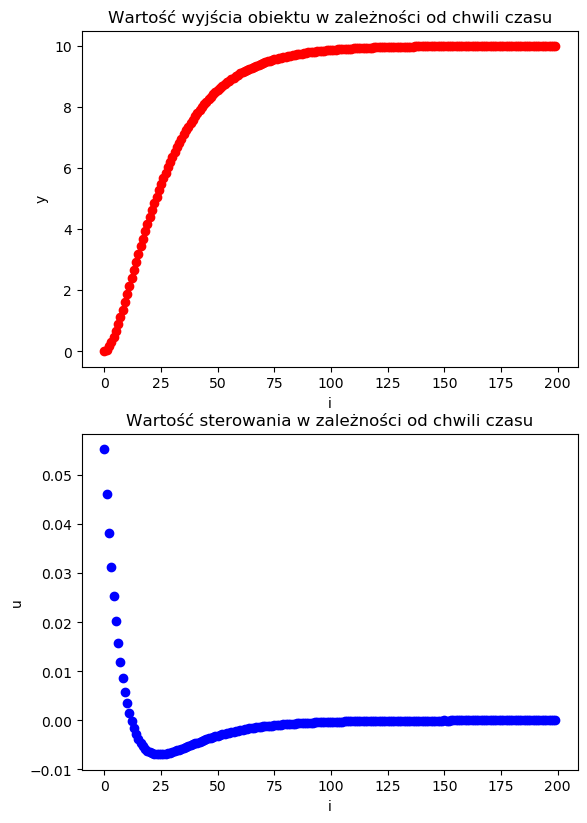
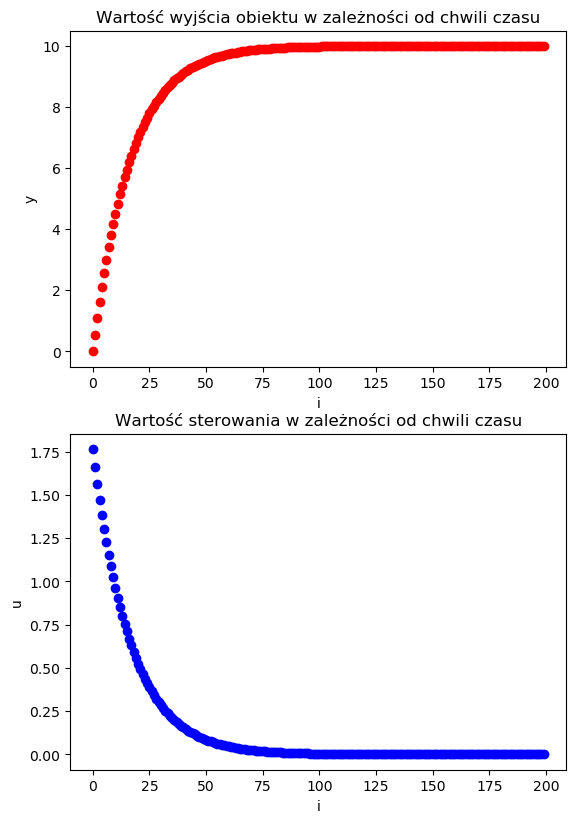
More plots provided

diff --git a/PC-STM-communication/test.py b/PC-STM-communication/test.py
@@ -8,12 +8,12 @@ import statistics
 
 projectPath = os.path.dirname(os.path.abspath(__file__))
 changeParameters = True
-systemParameters = {'A': [1, 0, 1, 0, 0, 1, 0, 1, 0, 0, 1, 0, 0, 0, 0, 1],
-                    'B': [0, 0, 1, 0],
+systemParameters = {'A': [-1, 0.2, 1, -0.2, 0, 0.5, 0.1, 1, 0, 0, 1, 0, 0, 0, 0, 1],
+                    'B': [0, 0, 1, 1],
                     'C': [1, 1, 0, 0],
-                    'setPoint': [10],
-                    'controlExtremeValues': [-10, 10],
-                    'horizons': [30, 8]}
+                    'setPoint': [100],
+                    'controlExtremeValues': [-0.25, 0.25],
+                    'horizons': [15, 3]}
 systemParametersToSend = str(systemParameters)[1:-1] + '\n\0'
 A = np.array(systemParameters['A']).\
     reshape(-1, int(np.sqrt(len(systemParameters['A']))))
@@ -52,12 +52,13 @@ fig[0].set_title('Wartość wyjścia obiektu w zależności od chwili czasu')
 fig[0].plot(y, 'ro'), fig[0].set_ylabel('y'), fig[0].set_xlabel('i')
 fig[1].set_title('Wartość sterowania w zależności od chwili czasu')
 fig[1].plot(u, 'bo'), fig[1].set_ylabel('u'), fig[1].set_xlabel('i')
-plt.savefig(r'{0}\plots\horizons_{1}.png'.format
-            (projectPath, systemParameters['horizons']), format='png', bbox_inches='tight')
+plt.show()
+#plt.savefig(r'{0}\plots\A_{1}.png'.format
+#            (projectPath, systemParameters['A']), format='png', bbox_inches='tight')
 print(y[-1])
 
 with open('log.txt', 'a') as logger:
-    logger.write(str(systemParameters['A']))
+    logger.write(str(systemParameters['A']) + '\n')
     logger.write('Init time, Mean of timestamps,'
                  ' Stdev of timestamps, Max of timestamps\n')
     logger.write(f"{initTimer:.4} {statistics.mean(timer):.4}"

diff --git a/thesis/chapters/results.tex b/thesis/chapters/results.tex
@@ -1,5 +1,12 @@
 \section{Różne parametry układu i wartości zadane}
 
+\begin{figure}[p]
+    \centering
+	\includegraphics[width=\textwidth]{A_[0.1, 0.2, 0.1, 0.2, 0, 0.5, 0.1, 1, 0, 0, 1, 0, 0, 0, 0, 1]}
+	\caption{Nasycone sterowanie}
+	\label{fig:saturated}
+\end{figure}
+
 \section{Różne parametry regulatora}
 
 \begin{figure}[p]
